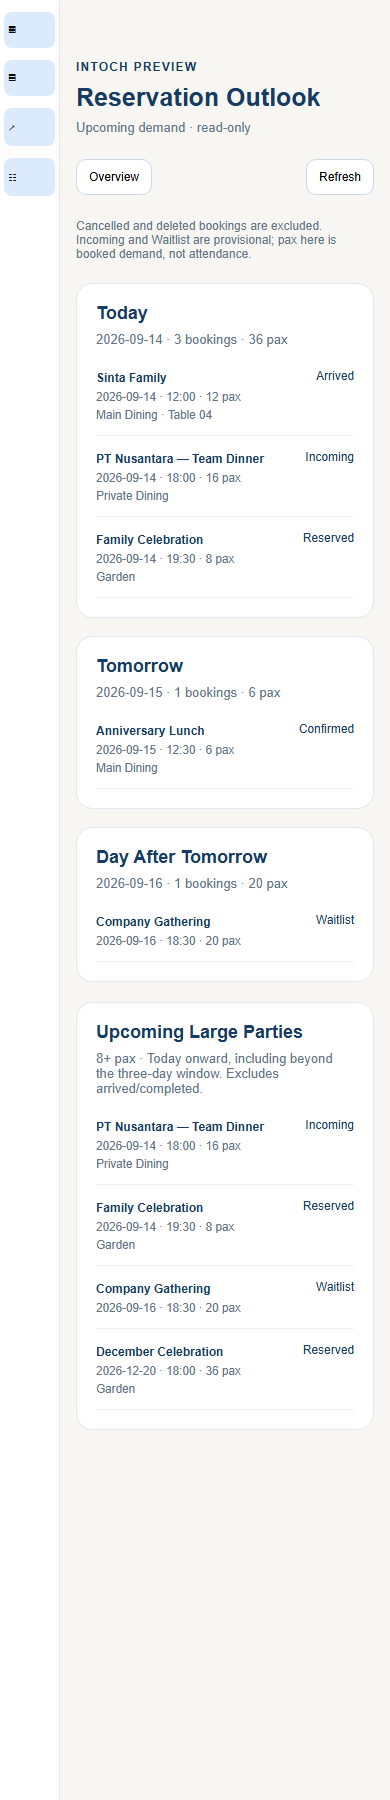
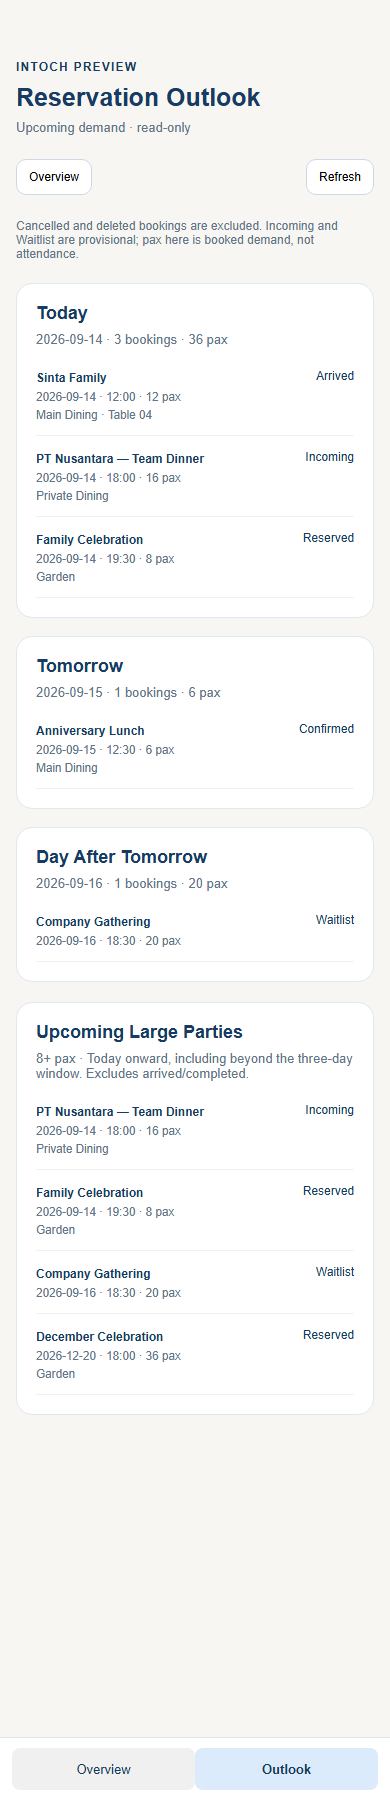
hide sidebar on owner dashboard

Changed region(s): [[0.0, 0.0, 0.9231, 0.7778], [0.4923, 0.9644, 0.9846, 0.9956], [0.2154, 0.9644, 0.3385, 0.9956]]

diff --git a/js/owner-dashboard.js b/js/owner-dashboard.js
@@ -129,11 +129,14 @@ async function loadOwnerDashboard() {
 function odError(retry) {
   return `<div class="od-error" role="alert"><h2>${odText('Overview unavailable','Ringkasan belum tersedia')}</h2><p>${odText('The data could not be loaded. Please retry; no totals are being shown.','Data gagal dimuat. Coba lagi; total belum ditampilkan.')}</p><button class="btn-primary" onclick="${retry}()">${odText('Retry','Coba lagi')}</button></div>`;
 }
+function odRenderMobileNav() {
+  document.querySelectorAll('.od-mobile-nav button').forEach((button,index)=>{
+    button.textContent=[odText('Overview','Ringkasan'),odText('Outlook','Agenda')][index%2];
+  });
+}
 function odRenderHeader(range,loading,updated) {
   document.querySelectorAll('[data-nav="reservation-outlook"] .nav-label').forEach(element=>element.textContent=odText('Reservation Outlook','Agenda Reservasi'));
-  document.querySelectorAll('.od-mobile-nav button').forEach((button,index)=>{
-    button.textContent=[odText('Overview','Ringkasan'),odText('Outlook','Agenda'),'Menu'][index];
-  });
+  odRenderMobileNav();
   const host=document.getElementById('owner-overview-header');
   host.innerHTML=`<div><p class="od-eyebrow">${odEscape(restaurantName())} · ${odEscape(currentStaffRole())}</p><h1>${odText('Restaurant overview','Ringkasan restoran')}</h1><p class="od-dates">${range.end} · ${odText('Today, so far','Hari ini, sejauh ini')}</p></div>
     <div class="od-header-controls"><button class="od-refresh" onclick="loadOwnerDashboard()" ${loading?'disabled':''}>${loading?odText('Loading…','Memuat…'):odText('Refresh','Muat ulang')}</button><button class="od-refresh" onclick="navigateTo('reservation-outlook')">${odText('Reservation Outlook','Agenda Reservasi')}</button><small>${updated?odText('Updated ','Diperbarui ')+odClock(updated).time+' WIB':odText('Jakarta time','Waktu Jakarta')}</small></div>`;
@@ -187,6 +190,7 @@ function odShowDetails(kind) {
 }
 async function loadReservationOutlook() {
   if(!odCanView())return;
+  odRenderMobileNav();
   const root=document.getElementById('outlook-content');if(!root)return;
   const request=++outlookState.request, identity=odIdentity(), day=odClock().day, threshold=odThreshold();
   const valid=()=>request===outlookState.request&&identity===odIdentity()&&odCanView()&&document.getElementById('page-reservation-outlook')?.classList.contains('active');
@@ -257,5 +261,3 @@ function odChart(visits,range){
  const values=days.map(day=>visits.filter(v=>v.visit_date===day).reduce((s,v)=>s+Number(v.pax||0),0));const max=Math.max(1,...values);
  return `<div class="od-chart" role="img" aria-label="${odEscape(days.map((d,i)=>d+': '+values[i]+' pax').join('; '))}">${days.map((day,i)=>`<div class="od-bar-column"><span>${values[i]}</span><div class="od-bar-track"><div style="height:${values[i]/max*100}%" class="od-bar ${i===days.length-1?'od-bar-last':''}"></div></div><small>${day.slice(8)}</small></div>`).join('')}</div>`;
 }
-
-function odToggleMenu(){document.body.classList.toggle('summary-menu-open');}

diff --git a/index.html b/index.html
@@ -19,7 +19,7 @@
          guest opens from WhatsApp, so both draw the same document. -->
     <link rel="stylesheet" href="css/invoice-sheet.css?v=1" />
     <link rel="stylesheet" href="css/dashboard-reservations.css?v=9" />
-    <link rel="stylesheet" href="css/owner-dashboard.css?v=3" />
+    <link rel="stylesheet" href="css/owner-dashboard.css?v=4" />
     <style>
       :root {
         /* ── Brand tokens (2026-09-05). ONE PLACE. ───────────────────
@@ -1910,14 +1910,16 @@
       <section id="page-owner-dashboard" class="page-section">
         <div class="od-container"><header id="owner-overview-header" class="od-header"></header><div id="owner-overview-content" aria-live="polite"></div></div>
         <nav class="od-mobile-nav" aria-label="Overview navigation">
-          <button onclick="window.scrollTo({top:0,behavior:'smooth'})">Overview</button>
+          <button aria-current="page" onclick="window.scrollTo({top:0,behavior:'smooth'})">Overview</button>
           <button onclick="navigateTo('reservation-outlook')">Outlook</button>
-          <button onclick="odToggleMenu()">Menu</button>
         </nav>
-        <button class="od-menu-close" aria-label="Close menu" onclick="odToggleMenu()">&times;</button>
       </section>
       <section id="page-reservation-outlook" class="page-section">
         <div class="od-container"><header id="outlook-header" class="od-header"></header><div id="outlook-content" aria-live="polite"></div></div>
+        <nav class="od-mobile-nav" aria-label="Management navigation">
+          <button onclick="navigateTo('dashboard')">Overview</button>
+          <button aria-current="page" onclick="window.scrollTo({top:0,behavior:'smooth'})">Outlook</button>
+        </nav>
       </section>
       <section id="page-admin-dashboard" class="page-section p-8">
         <div class="max-w-5xl mx-auto">
@@ -9425,9 +9427,9 @@ Pembayaran downpayment dapat dilakukan melalui QRIS</textarea
       </div>
     </div>
     <script src="js/staff-auth.js?v=3"></script>
-    <script src="js/owner-dashboard.js?v=4"></script>
+    <script src="js/owner-dashboard.js?v=5"></script>
     <script src="js/deposit-policy.js?v=1"></script>
-    <script src="js/app.js?v=58"></script>
+    <script src="js/app.js?v=59"></script>
     <script src="js/reservation-extras.js?v=2"></script>
     <script src="js/membership.js?v=7"></script>
     <!-- Bump ?v= on every wa.js change so FD browsers fetch the new file

diff --git a/css/owner-dashboard.css b/css/owner-dashboard.css
@@ -66,13 +66,13 @@
 .od-detail-row { display:flex; justify-content:space-between; gap:16px; padding:14px 0; border-bottom:1px solid #edf1f5; font-size:14px; }
 .od-detail-row small { display:block; margin-top:5px; color:#63758a; }
 .od-detail-row strong { font-size:12px; }
-.od-mobile-nav,.od-menu-close { display:none; }
+.od-mobile-nav { display:none; }
 #page-owner-dashboard :is(button,a):focus-visible { outline:3px solid #efa92f; outline-offset:3px; }
 @media(max-width:1050px) { .od-metrics { grid-template-columns:repeat(2,minmax(0,1fr)); } .od-header { align-items:flex-start; } .od-verdict { align-items:flex-start; flex-direction:column; gap:14px; } }
 @media(max-width:640px) {
  .od-metrics.od-today { grid-template-columns:repeat(2,minmax(0,1fr)); }
  .od-today > :last-child { grid-column:1 / -1; }
- #page-reservation-outlook { padding:20px 16px 32px; }
+ #page-reservation-outlook { padding:20px 16px 94px; }
  .od-outlook-days { grid-template-columns:1fr; }
  body.summary-dashboard-active #app-sidebar { display:none; }
  body.summary-dashboard-active #app-main { margin-left:0; }
@@ -95,9 +95,6 @@
  .od-returning { grid-column:auto; }
  .od-mobile-nav { position:fixed; bottom:0; left:0; right:0; display:flex; background:white; border-top:1px solid #dfe7ef; padding:10px 12px max(10px,env(safe-area-inset-bottom)); z-index:45; }
  .od-mobile-nav button { flex:1; min-height:42px; font-size:13px; color:#183b62; border-radius:8px; }
- .od-mobile-nav button:first-child { background:#edf3f8; font-weight:600; }
- body.summary-menu-open #app-sidebar { display:flex; width:220px; z-index:60; box-shadow:0 0 0 100vmax #183b6266; }
- body.summary-menu-open #app-sidebar .nav-label { display:inline; }
- body.summary-menu-open .od-menu-close { display:block; position:fixed; top:12px; left:230px; z-index:65; border-radius:50%; background:white; color:#183b62; width:40px; height:40px; }
+ .od-mobile-nav button[aria-current="page"] { background:var(--brand-tint); font-weight:600; }
 }
 @media(prefers-reduced-motion:reduce) { #page-owner-dashboard * { scroll-behavior:auto; } }

diff --git a/js/app.js b/js/app.js
@@ -831,7 +831,7 @@ async function navigateTo(page, bootToken = null) {
     // browser back/forward behaviour and the lastPage restore all keep working
     // without special cases. It renders the SAME #page-dashboard section staff
     // see — there is no second copy of that markup to drift out of sync.
-    document.body.classList.toggle("summary-dashboard-active", isAdminDashboard);
+    document.body.classList.toggle("summary-dashboard-active", isAdminDashboard || page === "reservation-outlook");
     document.body.classList.remove("summary-menu-open");
     const isStaffDashboardView = page === "staff-dashboard";
     const sectionId = isAdminDashboard

diff --git a/docs/CURRENT_STATE.md b/docs/CURRENT_STATE.md
@@ -28,6 +28,10 @@ the handoff is committed and replace it with the resulting commit when known.
 
 ## Implemented in current code
 
+Mobile management navigation: both Overview and Reservation Outlook hide the sidebar
+at widths up to 640px and show only Overview/Outlook bottom navigation. Desktop navigation
+and role permissions are unchanged. Frontend-only change; no deployment performed.
+
 Dashboard legacy-schema compatibility fix (local): user-provided live response confirmed
 `42703: column visits.spend_recording_status does not exist`. Overview and financial-history
 reads now retry without that optional column only for this specific error. Null spending
